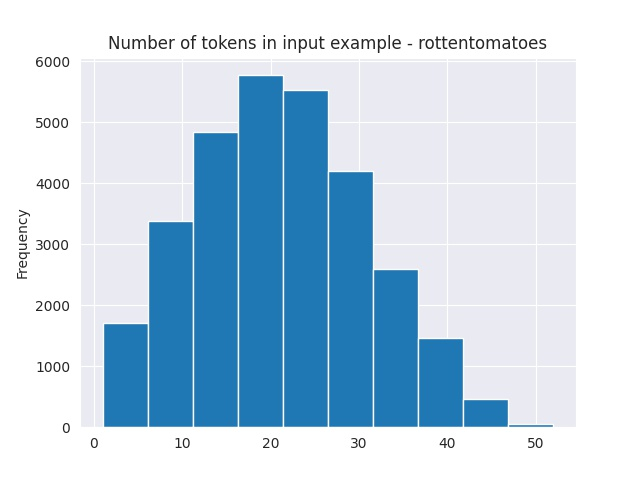
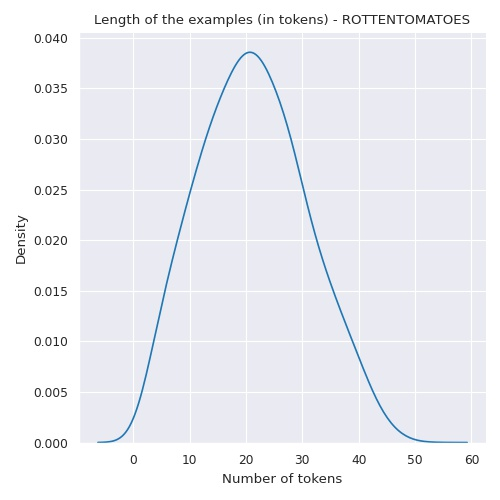
refactor logging using DummyLogger

diff --git a/src/train.py b/src/train.py
@@ -7,12 +7,14 @@ import click
 import pandas as pd
 from easydict import EasyDict
 
+from utils import get_n_splits, log_splits
+
 os.environ['COMET_DISABLE_AUTO_LOGGING'] = '1'
 
 from pytorch_lightning import Trainer, seed_everything
 from pytorch_lightning.callbacks import ModelCheckpoint, LearningRateMonitor
 from pytorch_lightning.loggers import CometLogger
-from sklearn.model_selection import train_test_split, StratifiedKFold
+from pytorch_lightning.loggers.base import DummyLogger
 from torch.utils.data import DataLoader
 
 from configs import model_data, dataset_tokens_length
@@ -45,24 +47,20 @@ def train(**params):
     if params.length is None:
         params.length = dataset_tokens_length[params.data_set]
 
-    logger, base_callbacks = False, list()
+    logger = DummyLogger()
     if params.logger:
         comet_config = EasyDict(config['cometml'])
         logger = CometLogger(api_key=comet_config.apikey, project_name=comet_config.projectname,
                              workspace=comet_config.workspace)
-        logger.experiment.log_code(folder='src')
-        logger.log_hyperparams(params)
-        base_callbacks.append(LearningRateMonitor(logging_interval='epoch'))
+
+    logger.experiment.log_code(folder='src')
+    logger.log_hyperparams(params)
+    base_callbacks = [LearningRateMonitor(logging_interval='epoch')]
 
     df_dataset = pd.read_csv(f'data/{params.data_set}/data.csv')
+    n_splits = get_n_splits(dataset=df_dataset, x_label='text', y_label='label', test_size=0.2, folds=params.fold)
 
-    if params.fold == 1:
-        train_indices, val_indices = train_test_split(list(range(len(df_dataset))), test_size=0.2,
-                                                      stratify=df_dataset['label'])
-        n_splits = [(train_indices, val_indices)]
-    else:
-        skf = StratifiedKFold(n_splits=params.fold)
-        n_splits = list(skf.split(X=df_dataset['text'], y=df_dataset['label']))
+    log_splits(n_splits, logger)
 
     best_models_scores = []
     for fold_id, (train_index, test_index) in enumerate(n_splits):
@@ -73,8 +71,7 @@ def train(**params):
             monitor='val_acc_' + i, period=1
         )
 
-        callbacks = deepcopy(base_callbacks)
-        callbacks.extend([model_checkpoint])
+        callbacks = deepcopy(base_callbacks) + [model_checkpoint]
 
         model_class, tokenizer_class, model_name = model_data[params.model]
         tokenizer = tokenizer_class.from_pretrained(model_name, do_lower_case=True)
@@ -101,14 +98,13 @@ def train(**params):
 
         trainer.fit(model, train_dataloader=train_loader, val_dataloaders=val_loader)
 
-        if params.logger:
-            for absolute_path in model_checkpoint.best_k_models.keys():
-                logger.experiment.log_model(Path(absolute_path).name, absolute_path)
-            if model_checkpoint.best_model_score:
-                best_models_scores.append(model_checkpoint.best_model_score.tolist())
-                logger.log_metrics({'best_model_score_' + i: model_checkpoint.best_model_score.tolist()})
+        for absolute_path in model_checkpoint.best_k_models.keys():
+            logger.experiment.log_model(Path(absolute_path).name, absolute_path)
+        if model_checkpoint.best_model_score:
+            best_models_scores.append(model_checkpoint.best_model_score.tolist())
+            logger.log_metrics({'best_model_score_' + i: model_checkpoint.best_model_score.tolist()})
 
-    if params.logger:
+    if len(best_models_scores) >= 1:
         logger.log_metrics({
             'avg_best_scores': float(np.mean(np.array(best_models_scores))),
             'std_best_scores': float(np.std(np.array(best_models_scores))),

diff --git a/src/utils.py b/src/utils.py
@@ -1,5 +1,30 @@
+import pandas as pd
+from sklearn.model_selection import StratifiedKFold, train_test_split
+
+
 def call_click_wrapper(f, run_params: dict):
     list_of_params = []
     for k, v in run_params.items():
         list_of_params.extend([k, v])
     f(list_of_params)
+
+
+def get_n_splits(dataset, x_label, y_label, test_size, folds):
+    """
+    :param test_size: used when folds == 1
+    :param folds: if > 1 ignore test_size
+    :return: list of indices in splits [(train_id, test_id)]
+    """
+    if folds == 1:
+        train_indices, val_indices = train_test_split(list(range(len(dataset))), test_size=test_size,
+                                                      stratify=dataset[y_label])
+        n_splits = [(train_indices, val_indices)]
+    else:
+        skf = StratifiedKFold(n_splits=folds)
+        n_splits = list(skf.split(X=dataset[x_label], y=dataset[y_label]))
+    return n_splits
+
+
+def log_splits(n_splits, logger):
+    df = pd.DataFrame(n_splits, columns=['train_indices', 'test_indices'])
+    logger.experiment.log_table('kfold_split_indices.csv', tabular_data=df)

diff --git a/src/analysis/datasets_distribution.py b/src/analysis/datasets_distribution.py
@@ -3,15 +3,17 @@ from pathlib import Path
 import pandas as pd
 import seaborn as sns
 from matplotlib.pyplot import savefig, clf
-
+import matplotlib.pyplot as plt
 sns.set_style('darkgrid')
-
+sns.set_context('paper')
 result_df = pd.DataFrame()
 Path('img/distribution').mkdir(exist_ok=True, parents=True)
 
 for d in ['amazon', 'hotel', 'imdb', 'rottentomatoes', 'yelp']:
     df = pd.read_csv('data/{}/data.csv'.format(d))
-    df['length'] = df['text'].apply(lambda x: len(x.split()))
-    df['length'].plot.hist(title=f'Number of tokens in input example - {d}')
+    df['Number of tokens'] = df['text'].apply(lambda x: len(x.split()))
+    sns.displot(df, x="Number of tokens", kind="kde", bw_adjust=2)
+    plt.title(f'Length of the examples (in tokens) - {d.upper()}')
+    plt.tight_layout()
     savefig(f'img/distribution/{d}.jpg')
     clf()
